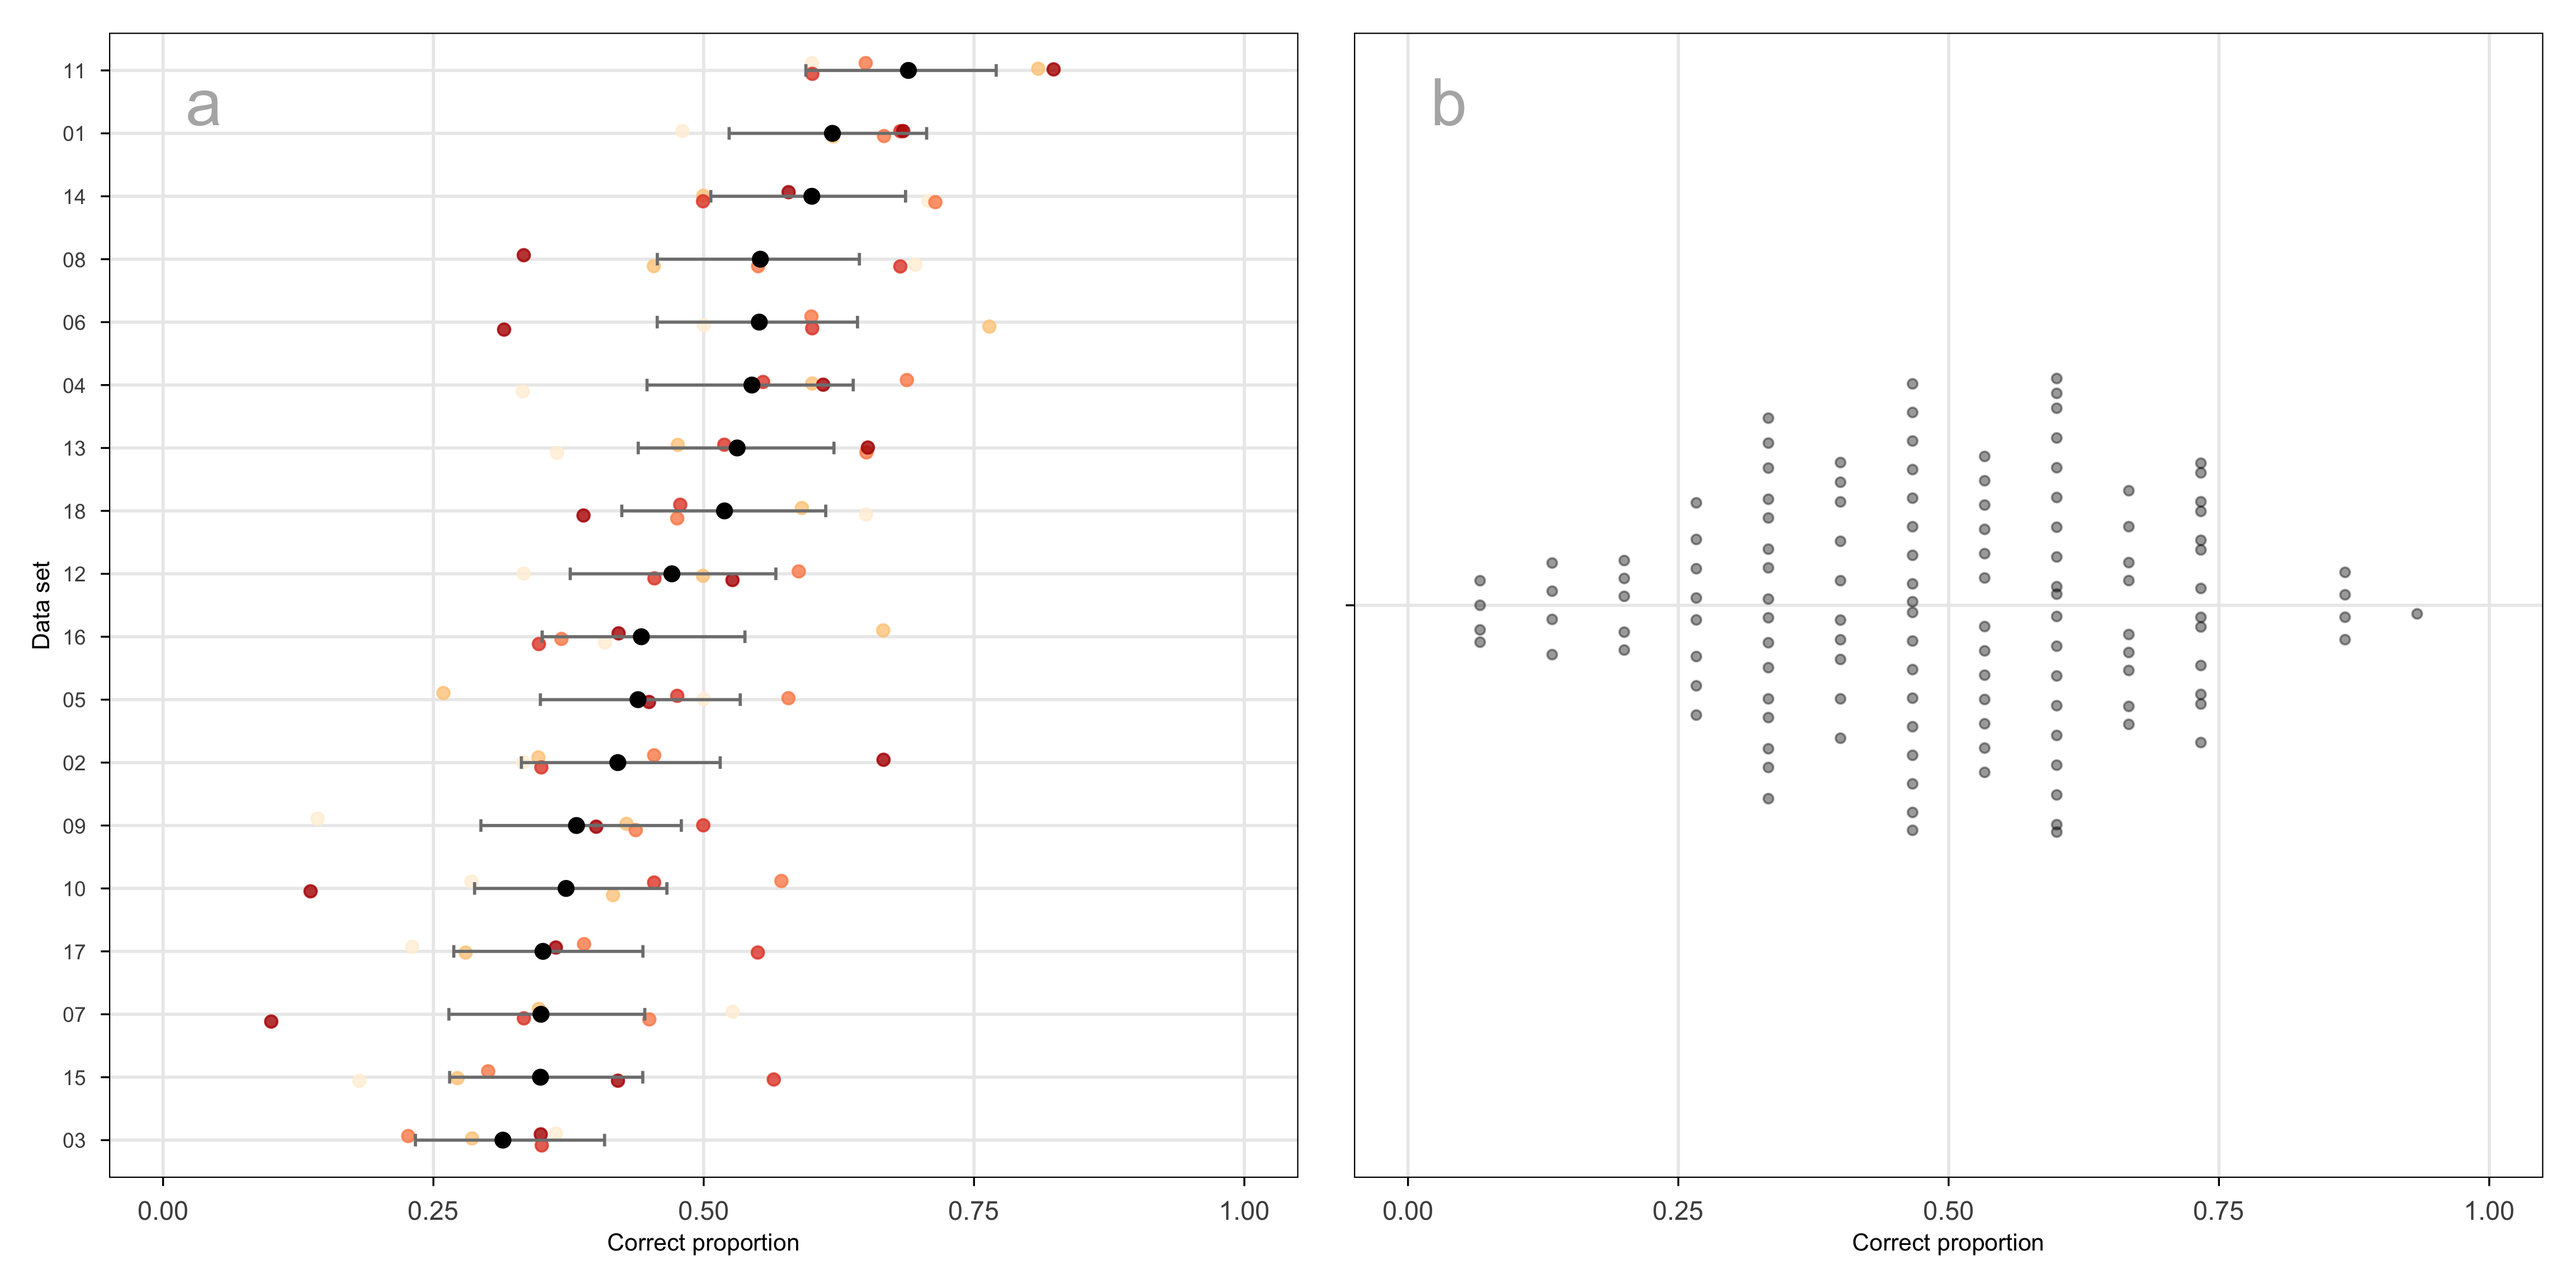
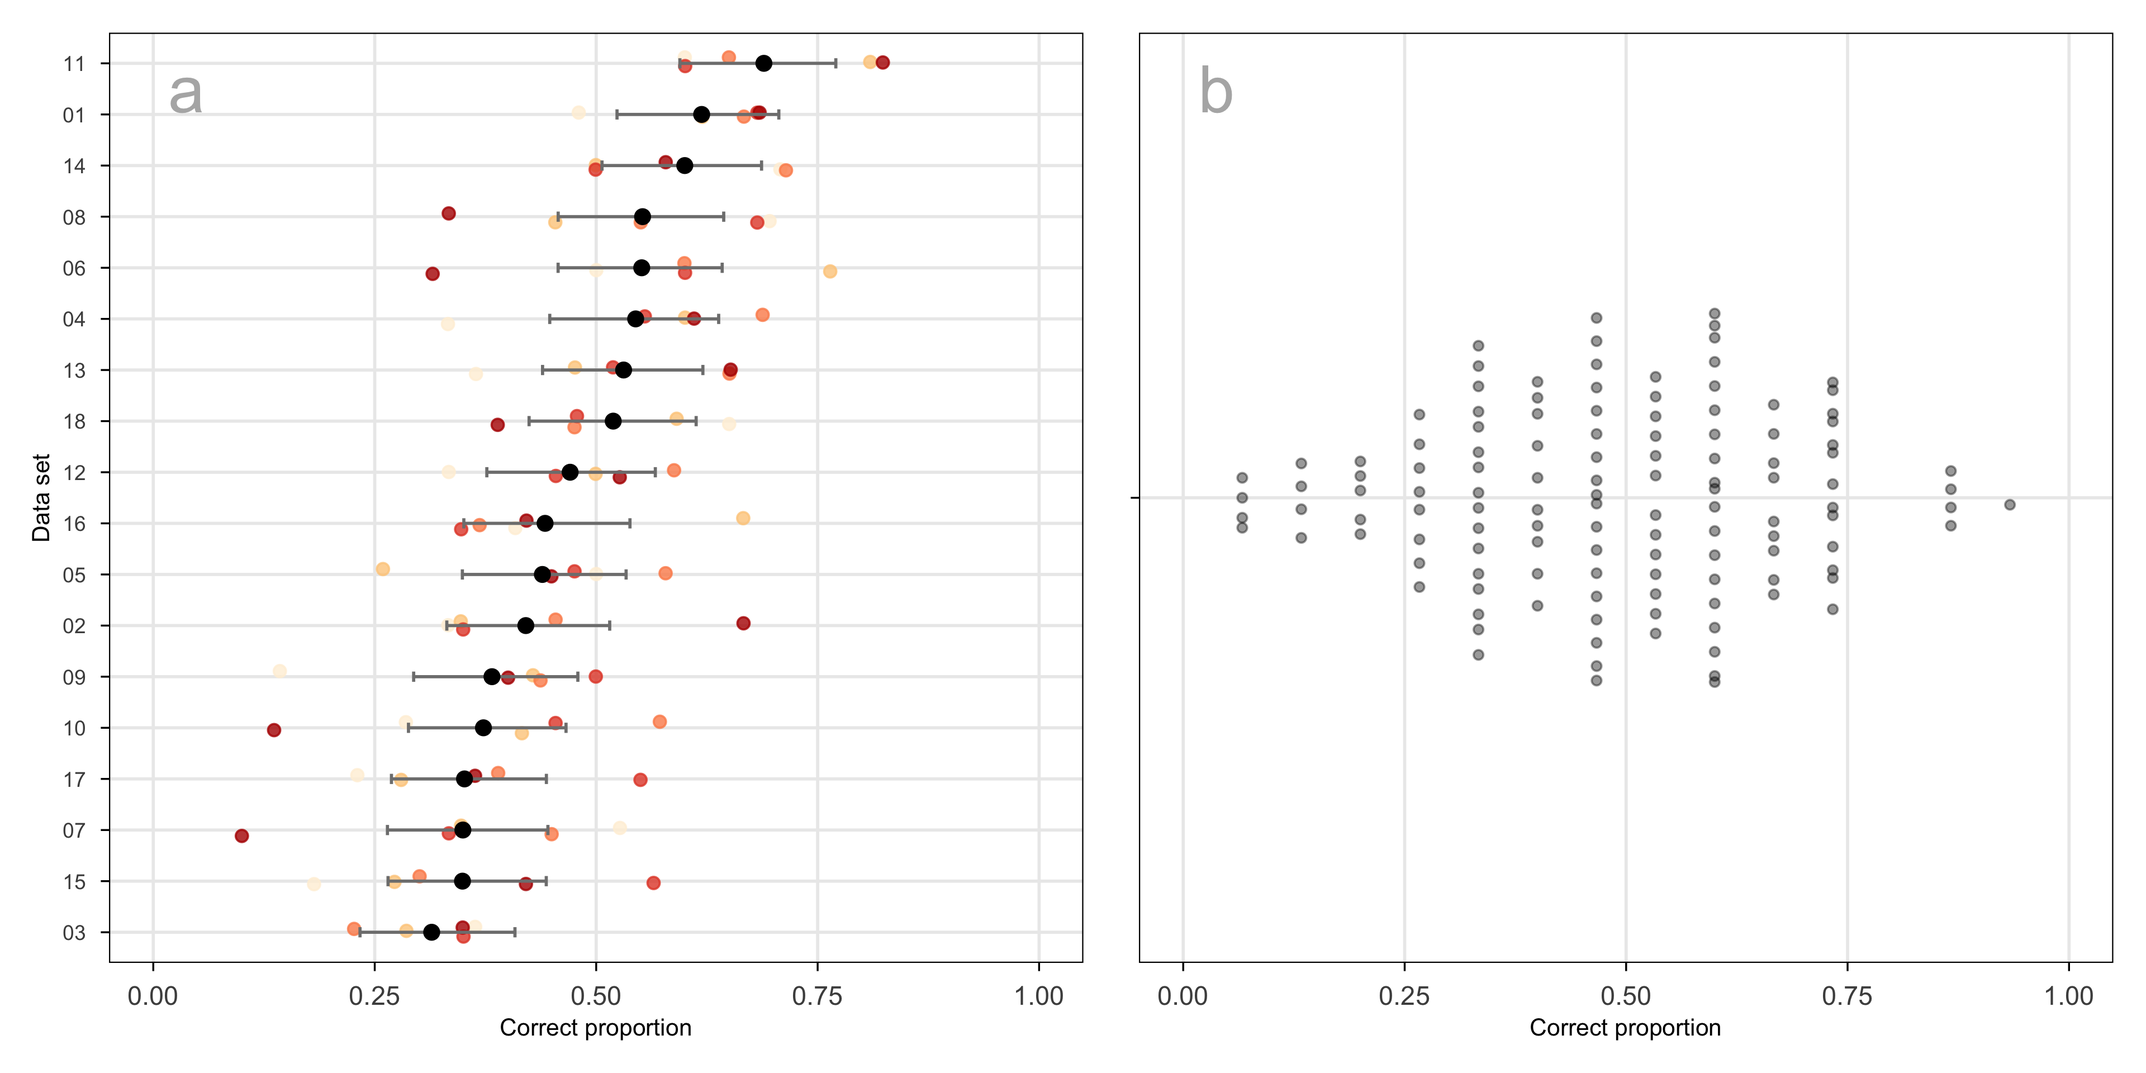
Rendered updated version

diff --git a/_book/chapters/05-chap5.html b/_book/chapters/05-chap5.html
@@ -296,7 +296,7 @@ window.Quarto = {
 <p>Nonlinear transformations allow for multiple shape-varying clusters to be represented in a single <span class="math inline">2\text{-}D</span> layout. In contrast, classical linear projection will often require multiple projections to show multiple clusters. <a href="#fig-nldr-layouts" class="quarto-xref">Figure&nbsp;<span>5.1</span></a> illustrates this: a1-a4 show linear projections revealing three well-separated clusters, one spherical, one ribbon-like and one like a star-shaped pyramid. The NLDR layout (left) is generated using tSNE has a mostly reasonable display of the three clusters in a single view, although it struggles with the star pyramid. It does place the clusters very close to each other which does not reflect the large separation in the high-dimensional space.</p>
 <div class="cell" data-layout-align="center">
 <div class="cell-output-display">
-<div id="fig-nldr-layouts" class="quarto-float quarto-figure quarto-figure-center anchored" data-fig-align="center" data-fig-pos="!ht">
+<div id="fig-nldr-layouts" class="quarto-float quarto-figure quarto-figure-center anchored" data-fig-pos="!ht" data-fig-align="center">
 <figure class="quarto-float quarto-float-fig figure"><div aria-describedby="fig-nldr-layouts-caption-0ceaefa1-69ba-4598-a22c-09a6ac19f8ca">
 <img src="05-chap5_files/figure-html/fig-nldr-layouts-1.png" class="img-fluid quarto-figure quarto-figure-center figure-img" style="width:100.0%" data-fig-pos="!ht">
 </div>
@@ -357,7 +357,7 @@ This study aims to answer which NLDR methods are more accurate in identifying th
 <p>The visual layout of the experiment for one subject is shown in <a href="#fig-exp-design" class="quarto-xref">Figure&nbsp;<span>5.2</span></a>. Each subject completed <span class="math inline">20</span> trials: <span class="math inline">15</span> SAME trials, in which the same data structure was shown in both the <span class="math inline">2\text{-}D</span> NLDR plot and the tour; <span class="math inline">4</span> DIFFERENT trials, showing DIFFERENT data structures; and one attention check trial that could be either SAME or DIFFERENT. The purpose of the DIFFERENT trials was to ensure that subjects didn’t get too familiar with the task, which might happen if the data is always the same in both graphics. For the SAME, five NLDR methods (<em>tSNE, UMAP, PHATE, PaCMAP, and TriMAP</em>) were each paired with three of five distance scale factors (<em>small, small-medium, medium, medium-large, and large</em>), giving <span class="math inline">15</span> balanced combinations. In the DIFFERENT, four NLDR methods were randomly selected, with the remaining method assigned to the attention check trial. All DIFFERENT and attention check trials used a distance scale factor of <em>medium-large</em>.</p>
 <div class="cell" data-layout-align="center">
 <div class="cell-output-display">
-<div id="fig-exp-design" class="quarto-float quarto-figure quarto-figure-center anchored" data-fig-align="center" data-fig-pos="!ht">
+<div id="fig-exp-design" class="quarto-float quarto-figure quarto-figure-center anchored" data-fig-pos="!ht" data-fig-align="center">
 <figure class="quarto-float quarto-float-fig figure"><div aria-describedby="fig-exp-design-caption-0ceaefa1-69ba-4598-a22c-09a6ac19f8ca">
 <img src="../figures/vis-exp/exp_design.png" class="img-fluid quarto-figure quarto-figure-center figure-img" style="width:50.0%" data-fig-pos="!ht">
 </div>
@@ -497,7 +497,7 @@ Table&nbsp;5.1: Estimated trends of correct identification probability with resp
 </div>
 <div class="cell" data-layout-align="center">
 <div class="cell-output-display">
-<div id="fig-glmm" class="quarto-float quarto-figure quarto-figure-center anchored" data-fig-align="center" data-fig-pos="!ht">
+<div id="fig-glmm" class="quarto-float quarto-figure quarto-figure-center anchored" data-fig-pos="!ht" data-fig-align="center">
 <figure class="quarto-float quarto-float-fig figure"><div aria-describedby="fig-glmm-caption-0ceaefa1-69ba-4598-a22c-09a6ac19f8ca">
 <img src="05-chap5_files/figure-html/fig-glmm-1.png" class="img-fluid quarto-figure quarto-figure-center figure-img" style="width:100.0%" data-fig-pos="!ht">
 </div>
@@ -595,7 +595,7 @@ Table&nbsp;5.2: Estimated trends of correct identification probability with resp
 </div>
 <div class="cell" data-layout-align="center">
 <div class="cell-output-display">
-<div id="fig-glmm-min" class="quarto-float quarto-figure quarto-figure-center anchored" data-fig-align="center" data-fig-pos="!ht">
+<div id="fig-glmm-min" class="quarto-float quarto-figure quarto-figure-center anchored" data-fig-pos="!ht" data-fig-align="center">
 <figure class="quarto-float quarto-float-fig figure"><div aria-describedby="fig-glmm-min-caption-0ceaefa1-69ba-4598-a22c-09a6ac19f8ca">
 <img src="05-chap5_files/figure-html/fig-glmm-min-1.png" class="img-fluid quarto-figure quarto-figure-center figure-img" style="width:100.0%" data-fig-pos="!ht">
 </div>
@@ -620,7 +620,7 @@ Figure&nbsp;5.5: Estimated probability of correct identification as a function o
 <img src="05-chap5_files/figure-html/fig-var-sum-1.png" class="img-fluid quarto-figure quarto-figure-center figure-img" style="width:100.0%">
 </div>
 <figcaption class="quarto-float-caption-bottom quarto-float-caption quarto-float-fig" id="fig-var-sum-caption-0ceaefa1-69ba-4598-a22c-09a6ac19f8ca">
-Figure&nbsp;5.6: Examining the correct proportions across data sets used in the experiment and across subjects. Panel (a) shows the proportion of correct responses for each data set. Black points indicate the overall correct proportion, with horizontal error bars showing binomial confidence intervals, while coloured points represent correct proportions at different distance-scaling conditions within each data set. Accuracy varies across data sets, ranging from approximately <span class="math inline">0.31</span> to <span class="math inline">0.70</span>, but remains broadly comparable across conditions, suggesting no single data set dominates performance. Panel (b) shows the distribution of correct identification proportions across subjects. Most subjects achieve moderate accuracy, with performance spread across lower and higher values rather than clustering at extremes. No subjects exhibit perfect accuracy or consistently incorrect responses, indicating meaningful engagement with the task. Variability in performance is shared across both data sets and subjects, supporting the use of subject-level random effects and indicating that misidentification reflects structured difficulty rather than random error or bias.
+Figure&nbsp;5.6: Examining the variability of proportion correct across data sets and subjects. Panel (a) shows the proportion of correct responses for each data set. Black indicates the correct proportion and binomial confidence intervals, with colour representing correct proportion across different distance-scaling within each data set (low to high matching light to dark). The variability ranges from <span class="math inline">0.3</span> to <span class="math inline">0.7</span> and is consistent with considering the data sets as replication variability due to random sampling. Panel (b) shows the distribution of proportion correct across subjects. It is relatively Gaussian with a few participants performing exceptionally well and some poorly. This is consistent with other human subject experiments and reflects individual visual skills, illustrating the need to include subject-specific random effects in the model.
 </figcaption></figure>
 </div>
 </div>

diff --git a/chapters/05-chap5.html.md b/chapters/05-chap5.html.md
@@ -366,7 +366,7 @@ This pattern suggests that subjects differ in overall sensitivity to visual stru
 
 ::: {.cell layout-align="center"}
 ::: {.cell-output-display}
-![Examining the correct proportions across data sets used in the experiment and across subjects. Panel (a) shows the proportion of correct responses for each data set. Black points indicate the overall correct proportion, with horizontal error bars showing binomial confidence intervals, while coloured points represent correct proportions at different distance-scaling conditions within each data set. Accuracy varies across data sets, ranging from approximately $0.31$ to $0.70$, but remains broadly comparable across conditions, suggesting no single data set dominates performance. Panel (b) shows the distribution of correct identification proportions across subjects. Most subjects achieve moderate accuracy, with performance spread across lower and higher values rather than clustering at extremes. No subjects exhibit perfect accuracy or consistently incorrect responses, indicating meaningful engagement with the task. Variability in performance is shared across both data sets and subjects, supporting the use of subject-level random effects and indicating that misidentification reflects structured difficulty rather than random error or bias.](05-chap5_files/figure-html/fig-var-sum-1.png){#fig-var-sum fig-align='center' width=100%}
+![Examining the variability of proportion correct across data sets and subjects. Panel (a) shows the proportion of correct responses for each data set. Black indicates the correct proportion and binomial confidence intervals, with colour representing correct proportion across different distance-scaling within each data set (low to high matching light to dark). The variability ranges from $0.3$ to $0.7$ and is consistent with considering the data sets as replication variability due to random sampling. Panel (b) shows the distribution of proportion correct across subjects. It is relatively Gaussian with a few participants performing exceptionally well and some poorly. This is consistent with other human subject experiments and reflects individual visual skills, illustrating the need to include subject-specific random effects in the model.](05-chap5_files/figure-html/fig-var-sum-1.png){#fig-var-sum fig-align='center' width=100%}
 :::
 :::
 
